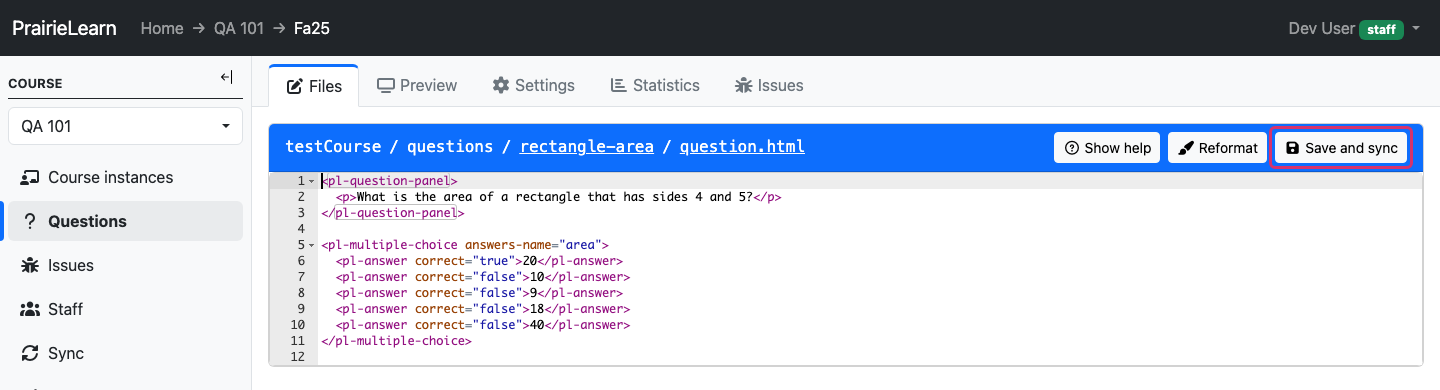
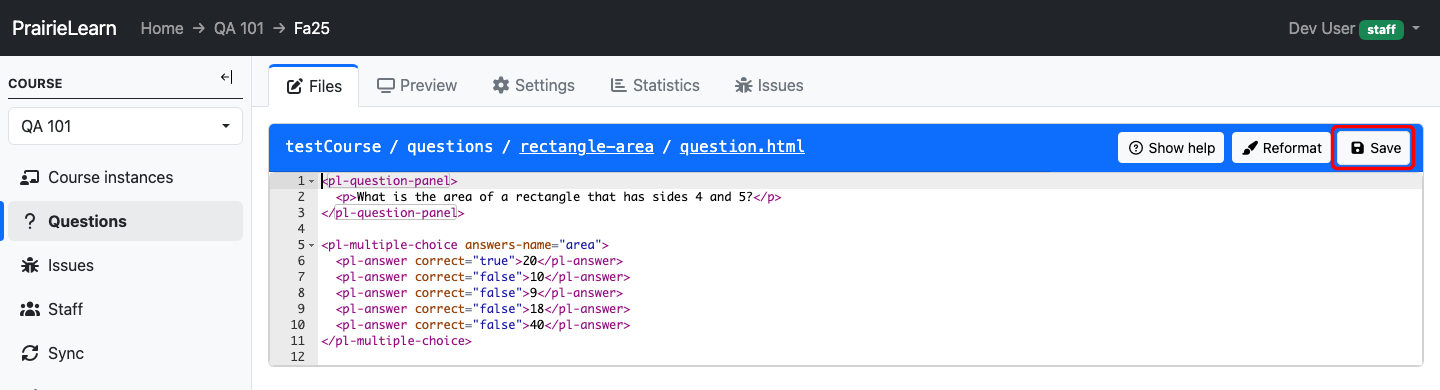
Simplify save button labels

Changed region(s): [[0.7188, 0.3077, 1.0, 0.4615]]

diff --git a/apps/prairielearn/src/tests/e2e/assessmentQuestions.spec.ts b/apps/prairielearn/src/tests/e2e/assessmentQuestions.spec.ts
@@ -100,7 +100,7 @@ test.describe('Assessment questions', () => {
         ['partialCredit3', 'partialCredit2', 'partialCredit4_v2'],
       ]);
 
-      await page.getByRole('button', { name: 'Save and sync' }).click();
+      await page.getByRole('button', { name: 'Save' }).click();
       await expect(page.getByRole('button', { name: 'Edit', exact: true })).toBeVisible();
 
       const infoAssessmentPath = path.join(
@@ -150,7 +150,7 @@ test.describe('Assessment questions', () => {
         ['partialCredit2', 'partialCredit3'],
       ]);
 
-      await page.getByRole('button', { name: 'Save and sync' }).click();
+      await page.getByRole('button', { name: 'Save' }).click();
       await expect(page.getByRole('button', { name: 'Edit', exact: true })).toBeVisible();
 
       const infoAssessmentPath = path.join(
@@ -213,7 +213,7 @@ test.describe('Assessment questions', () => {
       expect(parsedZones[1].bestQuestions).toBe(2);
     }).toPass({ timeout: 5000 });
 
-    await page.getByRole('button', { name: 'Save and sync' }).click();
+    await page.getByRole('button', { name: 'Save' }).click();
     await expect(page.getByRole('button', { name: 'Edit', exact: true })).toBeVisible();
 
     const infoAssessmentPath = path.join(
@@ -285,7 +285,7 @@ test.describe('Assessment questions', () => {
     await expect(page.getByLabel('QID', { exact: true })).toHaveValue('differentiatePolynomial');
     await expect(page.getByLabel('Auto points', { exact: true })).toHaveValue('7');
 
-    await page.getByRole('button', { name: 'Save and sync' }).click();
+    await page.getByRole('button', { name: 'Save' }).click();
     await expect(page.getByRole('button', { name: 'Edit', exact: true })).toBeVisible();
 
     const infoAssessmentPath = path.join(
@@ -342,7 +342,7 @@ test.describe('Assessment questions', () => {
 
       await page.getByRole('button', { name: 'Done' }).click();
 
-      await page.getByRole('button', { name: 'Save and sync' }).click();
+      await page.getByRole('button', { name: 'Save' }).click();
       await expect(page.getByRole('button', { name: 'Edit', exact: true })).toBeVisible();
 
       const infoAssessmentPath = path.join(
@@ -406,7 +406,7 @@ test.describe('Assessment questions', () => {
     await page.locator('[aria-label="Delete question partialCredit2"]').first().click();
 
     // Save should be disabled because the zone has 0 questions
-    const saveButton = page.getByRole('button', { name: 'Save and sync' });
+    const saveButton = page.getByRole('button', { name: 'Save' });
     await expect(saveButton).toBeDisabled();
 
     await page.getByRole('button').filter({ hasText: 'Zone to delete' }).first().click();
@@ -492,7 +492,7 @@ test.describe('Assessment questions', () => {
       expect(parsedZones[1].questions[0].autoPoints).toEqual([8, 4, 2]);
     }).toPass({ timeout: 5000 });
 
-    await page.getByRole('button', { name: 'Save and sync' }).click();
+    await page.getByRole('button', { name: 'Save' }).click();
     await expect(page.getByRole('button', { name: 'Edit', exact: true })).toBeVisible();
 
     const infoAssessmentPath = path.join(
@@ -544,7 +544,7 @@ test.describe('Assessment questions', () => {
       expect(parsedZones[0].questions[0].autoPoints).toBe(5);
     }).toPass({ timeout: 5000 });
 
-    await page.getByRole('button', { name: 'Save and sync' }).click();
+    await page.getByRole('button', { name: 'Save' }).click();
     await expect(page.getByRole('button', { name: 'Edit', exact: true })).toBeVisible();
 
     const infoAssessmentPath = path.join(
@@ -591,7 +591,7 @@ test.describe('Assessment questions', () => {
       expect(parsedZones[0].questions[0].autoPoints).toBe(2);
     }).toPass({ timeout: 5000 });
 
-    await page.getByRole('button', { name: 'Save and sync' }).click();
+    await page.getByRole('button', { name: 'Save' }).click();
     await expect(page.getByRole('button', { name: 'Edit', exact: true })).toBeVisible();
 
     const infoAssessmentPath = path.join(

diff --git a/apps/prairielearn/src/tests/e2e/assessmentSetsEditor.spec.ts b/apps/prairielearn/src/tests/e2e/assessmentSetsEditor.spec.ts
@@ -18,7 +18,7 @@ test.describe('Assessment sets editor', () => {
     await page.waitForSelector('.js-hydrated-component');
 
     await page.getByRole('button', { name: 'Edit assessment sets' }).click();
-    await expect(page.getByRole('button', { name: 'Save and sync' })).toBeVisible();
+    await expect(page.getByRole('button', { name: 'Save' })).toBeVisible();
 
     // Create two assessment sets with unique abbreviations
     const timestamp = Date.now().toString().slice(-4);
@@ -59,7 +59,7 @@ test.describe('Assessment sets editor', () => {
 
     expect(await getRowIndex(betaRow)).toBeLessThan(betaIndexBefore);
 
-    await page.getByRole('button', { name: 'Save and sync' }).click();
+    await page.getByRole('button', { name: 'Save' }).click();
     await page.waitForURL(/\/jobSequence\/|\/course_admin\/sets/);
 
     if (page.url().includes('/jobSequence/')) {
@@ -90,7 +90,7 @@ test.describe('Assessment sets editor', () => {
 
     // Enter edit mode
     await page.getByRole('button', { name: 'Edit assessment sets' }).click();
-    await expect(page.getByRole('button', { name: 'Save and sync' })).toBeVisible();
+    await expect(page.getByRole('button', { name: 'Save' })).toBeVisible();
 
     // Create a new assessment set to edit
     const timestamp = Date.now().toString().slice(-4);
@@ -130,8 +130,8 @@ test.describe('Assessment sets editor', () => {
     await expect(tbody.locator('.badge', { hasText: editedAbbrev })).toBeVisible();
     await expect(tbody.locator('.badge', { hasText: originalAbbrev })).not.toBeVisible();
 
-    // Save and sync
-    await page.getByRole('button', { name: 'Save and sync' }).click();
+    // Save
+    await page.getByRole('button', { name: 'Save' }).click();
     await page.waitForURL(/\/jobSequence\/|\/course_admin\/sets/);
 
     if (page.url().includes('/jobSequence/')) {
@@ -154,7 +154,7 @@ test.describe('Assessment sets editor', () => {
 
     // Enter edit mode
     await page.getByRole('button', { name: 'Edit assessment sets' }).click();
-    await expect(page.getByRole('button', { name: 'Save and sync' })).toBeVisible();
+    await expect(page.getByRole('button', { name: 'Save' })).toBeVisible();
 
     // Create a new assessment set to delete
     const timestamp = Date.now().toString().slice(-4);
@@ -179,8 +179,8 @@ test.describe('Assessment sets editor', () => {
     // Verify it's removed from the table
     await expect(tbody.locator('.badge', { hasText: deleteAbbrev })).not.toBeVisible();
 
-    // Save and sync
-    await page.getByRole('button', { name: 'Save and sync' }).click();
+    // Save
+    await page.getByRole('button', { name: 'Save' }).click();
     await page.waitForURL(/\/jobSequence\/|\/course_admin\/sets/);
 
     if (page.url().includes('/jobSequence/')) {

diff --git a/apps/prairielearn/src/pages/instructorFileEditor/instructorFileEditor.html.ts b/apps/prairielearn/src/pages/instructorFileEditor/instructorFileEditor.html.ts
@@ -179,7 +179,7 @@ export function InstructorFileEditor({
                   disabled
                 >
                   <i class="fas fa-save" aria-hidden="true"></i>
-                  Save and sync
+                  Save
                 </button>
               </div>
             </div>
@@ -187,8 +187,8 @@ export function InstructorFileEditor({
           <div class="collapse" id="help">
             <div class="card-body">
               You are editing the file <code>${editorData.normalizedFileName}</code>. To save
-              changes, click <strong>Save and sync</strong> or use
-              <strong>Ctrl-S</strong> (Windows/Linux) or <strong>Cmd-S</strong> (Mac).
+              changes, click <strong>Save</strong> or use <strong>Ctrl-S</strong> (Windows/Linux) or
+              <strong>Cmd-S</strong> (Mac).
               ${config.fileEditorUseGit
                 ? html`
                     Doing so will write your changes to disk, will push them to the remote GitHub
@@ -218,7 +218,7 @@ export function InstructorFileEditor({
                             ? draftEdit.didSync
                               ? 'File was both saved and synced successfully.'
                               : 'File was saved, but failed to sync.'
-                            : 'Failed to save and sync file.'}
+                            : 'Failed to save file.'}
                         </div>
                         ${draftEdit.jobSequence != null
                           ? html`
@@ -268,10 +268,10 @@ export function InstructorFileEditor({
                         : 'Both you and another user made changes to this file.'}
                       You may choose either to continue editing your draft or to discard your
                       changes. In particular, if you click
-                      <strong>Choose my version</strong> and then click
-                      <strong>Save and sync</strong>, you will overwrite the version of this file
-                      that is on disk. If you instead click <strong>Choose their version</strong>,
-                      any changes you have made to this file will be lost.
+                      <strong>Choose my version</strong> and then click <strong>Save</strong>, you
+                      will overwrite the version of this file that is on disk. If you instead click
+                      <strong>Choose their version</strong>, any changes you have made to this file
+                      will be lost.
                       <button
                         type="button"
                         class="btn-close"

diff --git a/apps/prairielearn/src/tests/e2e/captureOnboardingScreenshots.spec.ts b/apps/prairielearn/src/tests/e2e/captureOnboardingScreenshots.spec.ts
@@ -298,7 +298,7 @@ async function captureQuestionFlow(page: Page, courseInstanceUrl: string) {
     .click();
   await page.waitForURL(/\/file_edit\/.*question\.html/);
   await setAceEditorContent(page, QUESTION_HTML);
-  await highlight(page.getByRole('button', { name: /Save and sync/ }));
+  await highlight(page.getByRole('button', { name: 'Save' }));
   const editorCardBottom = await page.evaluate(() => {
     const card = document.querySelector('#file-editor-draft .card');
     return card ? Math.ceil(card.getBoundingClientRect().bottom) : null;
@@ -307,7 +307,7 @@ async function captureQuestionFlow(page: Page, courseInstanceUrl: string) {
     clip: { x: 0, y: 0, width: VIEWPORT.width, height: (editorCardBottom ?? 600) + 24 },
   });
 
-  await page.getByRole('button', { name: /Save and sync/ }).click();
+  await page.getByRole('button', { name: 'Save' }).click();
   await page.waitForLoadState('networkidle');
 
   await page.getByRole('link', { name: 'Preview' }).click();
@@ -340,7 +340,7 @@ async function captureAssessmentFlow(page: Page, courseInstanceUrl: string) {
   await page.goto(`${courseInstanceUrl}/instructor/assessment/${assessmentId}/questions`);
   await page.waitForURL(/\/assessment\/\d+\/questions$/);
   await page.getByRole('button', { name: 'Edit', exact: true }).click();
-  await page.getByRole('button', { name: 'Save and sync' }).waitFor();
+  await page.getByRole('button', { name: 'Save' }).waitFor();
   await page.getByRole('button', { name: 'Add zone', exact: true }).click();
   await page.getByRole('button', { name: 'Add question', exact: true }).waitFor();
   await page.getByRole('button', { name: 'Add question', exact: true }).click();
@@ -366,7 +366,7 @@ async function captureAssessmentFlow(page: Page, courseInstanceUrl: string) {
     clip: { x: 0, y: 0, width: VIEWPORT.width, height: (zoneCardBottom ?? 700) + 24 },
   });
 
-  await page.getByRole('button', { name: 'Save and sync' }).click();
+  await page.getByRole('button', { name: 'Save' }).click();
   await page.waitForLoadState('networkidle');
   await editAssessmentJsonViaUI(page, courseInstanceUrl, assessmentId);
 
@@ -401,7 +401,7 @@ async function editAssessmentJsonViaUI(
     },
   ];
   await setAceEditorContent(page, JSON.stringify(json, null, 2) + '\n');
-  await page.getByRole('button', { name: /Save and sync/ }).click();
+  await page.getByRole('button', { name: 'Save' }).click();
   await page.waitForLoadState('networkidle');
 }
 

diff --git a/apps/prairielearn/src/tests/e2e/accessControl.spec.ts b/apps/prairielearn/src/tests/e2e/accessControl.spec.ts
@@ -104,7 +104,7 @@ test.describe('Access control UI', () => {
     await expect(getOverrideCard(page, 'Section A')).toBeVisible();
 
     // Save bar is hidden when there are no unsaved changes
-    await expect(page.getByRole('button', { name: /Save and sync/i })).toBeHidden();
+    await expect(page.getByRole('button', { name: 'Save' })).toBeHidden();
   });
 
   test('can add a student-label override, configure it, and save', async ({
@@ -140,7 +140,7 @@ test.describe('Access control UI', () => {
     await expect(getOverrideCard(page, 'Extra time')).toBeVisible();
 
     // Save
-    await page.getByRole('button', { name: /Save and sync/i }).click();
+    await page.getByRole('button', { name: 'Save' }).click();
     await expect(page.getByText('Access control updated successfully.')).toBeVisible();
 
     // Verify DB: new rule with labels
@@ -183,7 +183,7 @@ test.describe('Access control UI', () => {
     await expect(page.getByText('No overrides configured')).toBeVisible();
 
     // Save
-    await page.getByRole('button', { name: /Save and sync/i }).click();
+    await page.getByRole('button', { name: 'Save' }).click();
     await expect(page.getByText('Access control updated successfully.')).toBeVisible();
 
     // Verify DB: override count decreased
@@ -238,7 +238,7 @@ test.describe('Access control UI', () => {
     await expect(page.getByText('Hidden after completion')).toBeVisible();
 
     // Save
-    await page.getByRole('button', { name: /Save and sync/i }).click();
+    await page.getByRole('button', { name: 'Save' }).click();
     await expect(page.getByText('Access control updated successfully.')).toBeVisible();
 
     // Verify DB state

diff --git a/apps/prairielearn/src/components/TagsTopicsTable.tsx b/apps/prairielearn/src/components/TagsTopicsTable.tsx
@@ -106,7 +106,7 @@ export function TagsTopicsTable<Entity extends StaffTag | StaffTopic>({
                   <input type="hidden" name="data" value={JSON.stringify(entitiesState)} />
                   <span className="js-edit-mode-buttons">
                     <button className="btn btn-sm btn-light mx-1" type="submit">
-                      <i className="fa fa-save" aria-hidden="true" /> Save and sync
+                      <i className="fa fa-save" aria-hidden="true" /> Save
                     </button>
                     <button
                       className="btn btn-sm btn-light"

diff --git a/apps/prairielearn/src/tests/fileEditor.test.ts b/apps/prairielearn/src/tests/fileEditor.test.ts
@@ -437,7 +437,7 @@ function verifyEdit(
     const fileContents = b64DecodeUnicode(editor.data('contents'));
     assert.strictEqual(fileContents, expectedDraftContents);
   });
-  it(`should have results of save and sync - ${expectedToFindResults}`, function () {
+  it(`should have save results - ${expectedToFindResults}`, function () {
     elemList = locals.$('form[name="editor-form"] #job-sequence-results');
     if (expectedToFindResults) {
       assert.lengthOf(elemList, 1);

diff --git a/apps/prairielearn/src/pages/instructorAssessmentQuestions/components/EditModeToolbar.tsx b/apps/prairielearn/src/pages/instructorAssessmentQuestions/components/EditModeToolbar.tsx
@@ -112,11 +112,11 @@ export function EditModeToolbar({
       )}
       type="submit"
       disabled={saveButtonDisabled}
-      aria-label="Save and sync"
+      aria-label="Save"
       {...(saveButtonDisabledReason && { 'aria-describedby': saveTooltipId })}
     >
       <i className="bi bi-floppy" aria-hidden="true" />{' '}
-      <span className="toolbar-btn-label">Save and sync</span>
+      <span className="toolbar-btn-label">Save</span>
     </button>
   );
 

diff --git a/apps/prairielearn/src/tests/e2e/assessmentTools.spec.ts b/apps/prairielearn/src/tests/e2e/assessmentTools.spec.ts
@@ -124,7 +124,7 @@ test.describe('Assessment tools', () => {
       expect(parsedZones[1].tools?.calculator?.enabled).toBe(false);
     }).toPass({ timeout: 5000 });
 
-    await page.getByRole('button', { name: 'Save and sync' }).click();
+    await page.getByRole('button', { name: 'Save' }).click();
     await expect(page.getByText('Assessment questions updated successfully')).toBeVisible();
 
     const savedAssessment = await readInfoAssessment(testCoursePath);

diff --git a/apps/prairielearn/src/tests/e2e/captureAccessControlScreenshots.spec.ts b/apps/prairielearn/src/tests/e2e/captureAccessControlScreenshots.spec.ts
@@ -125,7 +125,7 @@ async function prepareScreenshotDom(page: Page, replacements: ScreenshotTextRepl
         return (
           rect.height > 0 &&
           (text.includes('No unsaved changes') || text.includes('You have unsaved changes')) &&
-          text.includes('Save and sync')
+          text.includes('Save')
         );
       })
       .sort((a, b) => a.getBoundingClientRect().height - b.getBoundingClientRect().height)

diff --git a/apps/prairielearn/src/pages/instructorCourseAdminSets/components/AssessmentSetsTable.tsx b/apps/prairielearn/src/pages/instructorCourseAdminSets/components/AssessmentSetsTable.tsx
@@ -337,7 +337,7 @@ export function AssessmentSetsPage({
                   />
                   <button className="btn btn-sm btn-light mx-1" type="submit">
                     <i className="fa fa-save" aria-hidden="true" />
-                    Save and sync
+                    Save
                   </button>
                   <button
                     className="btn btn-sm btn-light"

diff --git a/apps/prairielearn/assets/scripts/instructorFileEditorClient.tsx b/apps/prairielearn/assets/scripts/instructorFileEditorClient.tsx
@@ -453,7 +453,7 @@ onDocumentReady(() => {
         .querySelectorAll('.js-version-choice-content')
         .forEach((element) => element.remove());
 
-      // Show div that contains "Show help" and "Save and sync" buttons
+      // Show div that contains "Show help" and "Save" buttons
       window.bootstrap.Collapse.getOrCreateInstance('#buttons').show();
 
       draftEditor?.takeOver();
